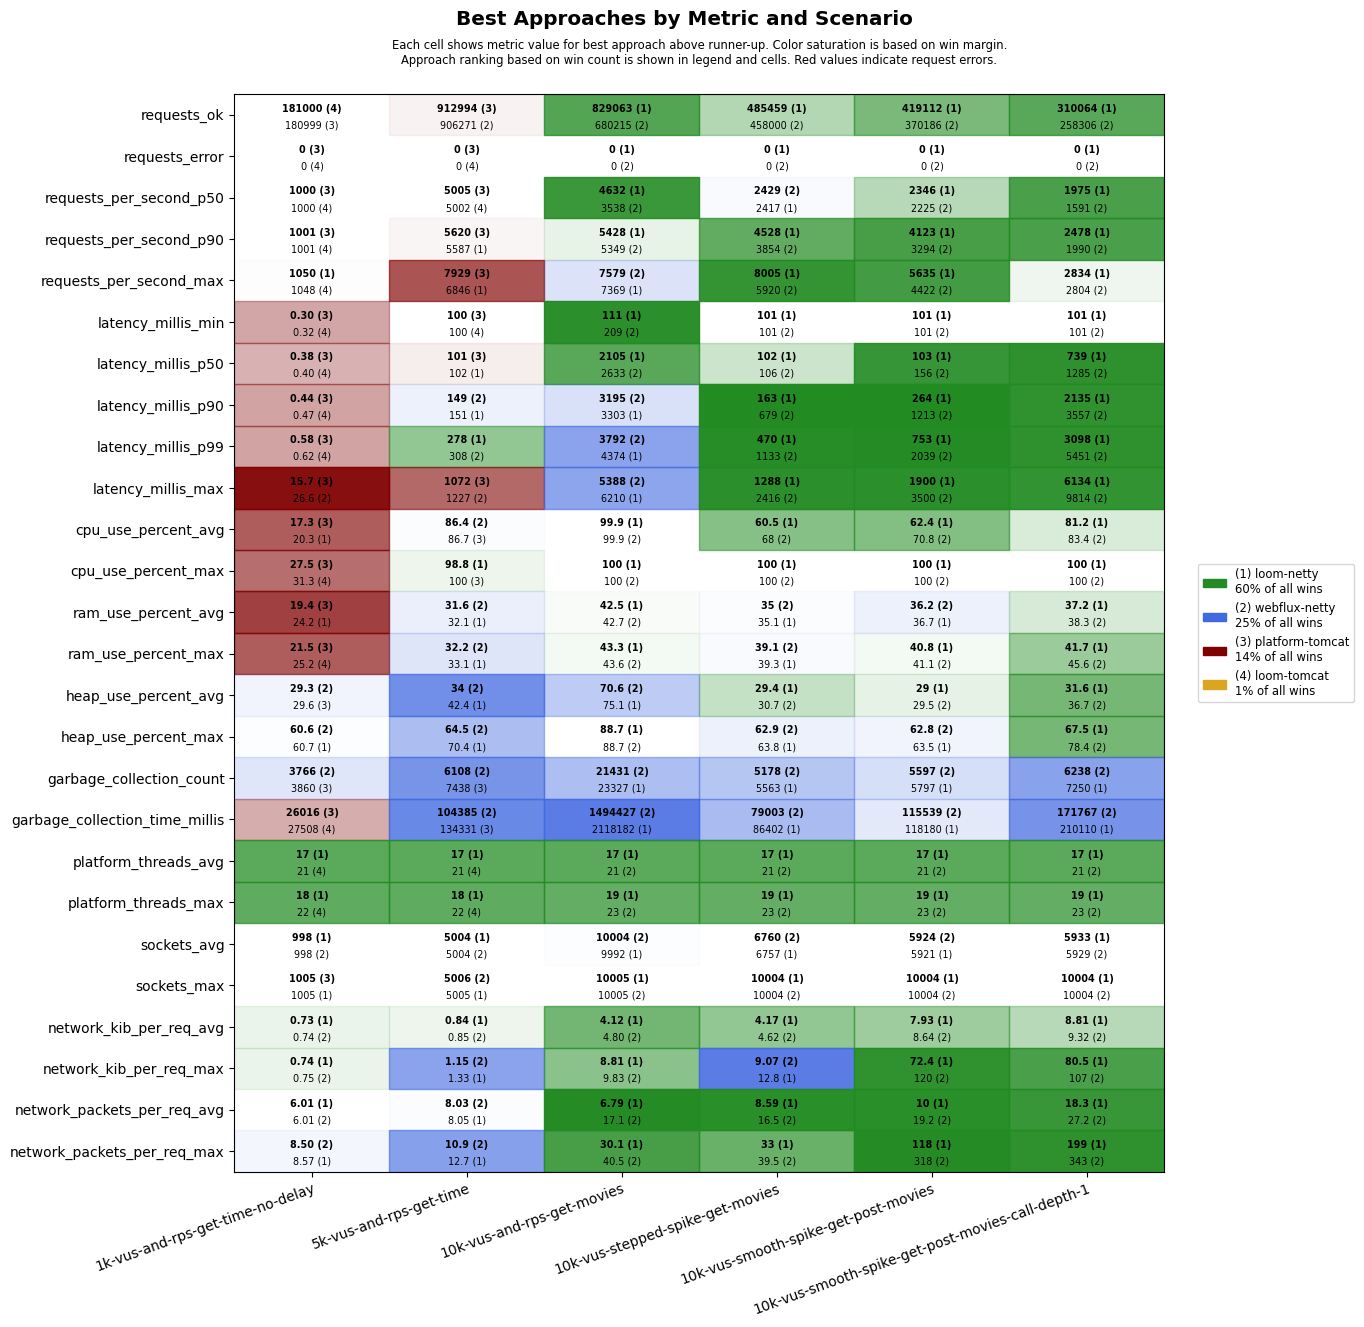
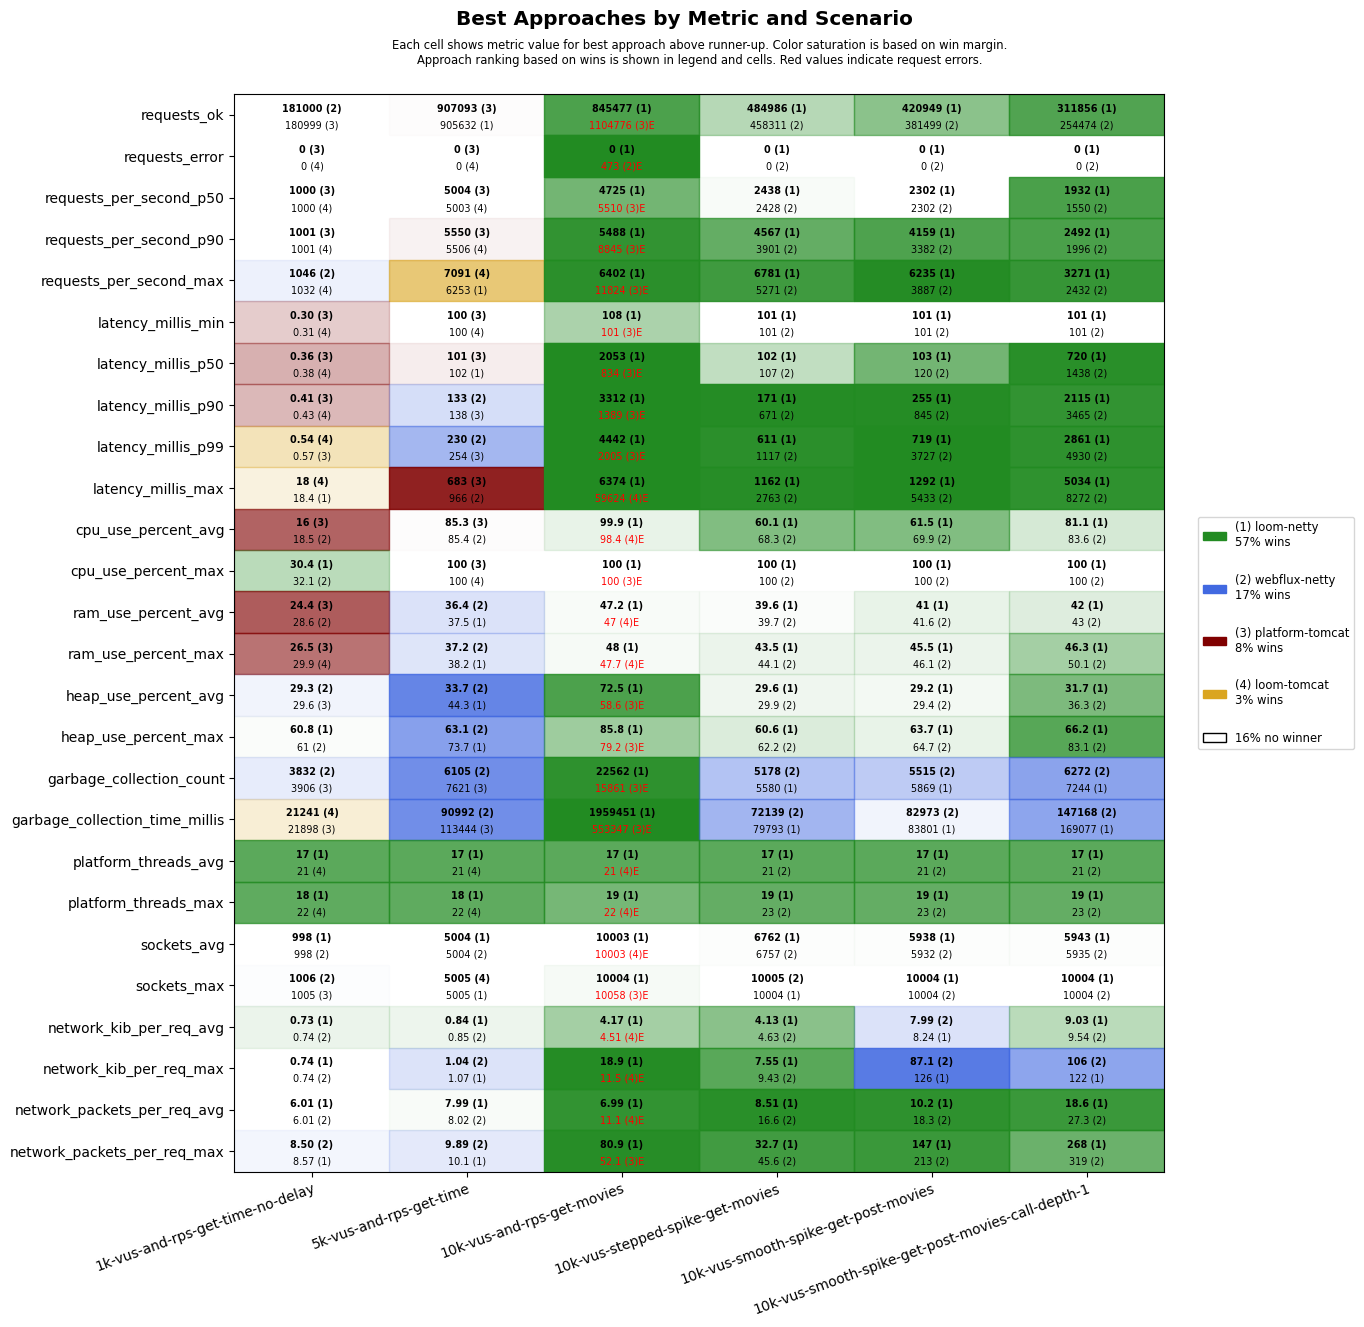
Apply automatic changes

diff --git a/results/ci/scenarios-ci/Ubuntu-22.04/java-21/results.md b/results/ci/scenarios-ci/Ubuntu-22.04/java-21/results.md
@@ -1,0 +1,162 @@
+# scenarios-ci
+
+## Test Time
+
+| **Name**                | **Value** |
+|-------------------------|-----------|
+| **Start (UTC)** | 2024-08-02 02:35:32 |
+| **End (UTC)** | 2024-08-02 04:00:30 |
+| **Duration (hh:mm:ss)** | 01:24:58 |
+
+## System Specs
+
+| **Name**                | **Value** |
+|-------------------------|-----------|
+| **Java** | OpenJDK 64-Bit Server VM Corretto-21.0.4.7.1 (build 21.0.4+7-LTS, mixed mode, sharing) |
+| **Python** | 3.10.12 |
+| **OS** | Ubuntu 22.04.4 LTS |
+| **Kernel** | 6.5.0-1024-azure |
+| **CPU** | AMD EPYC 7763 64-Core Processor |
+| **CPU Cores** | 4 |
+| **RAM** | 15Gi total, 13Gi available |
+| **Disk** | 159G total, 96G available |
+
+## Scenarios
+
+**Scenario file:** src/main/resources/scenarios/scenarios-ci.csv
+
+| Scenario | k6 Config | Server Profiles | Delay Call Depth | Delay (ms) | Connections | Requests per Second | Warmup Duration (s) | Test Duration (s) |
+|----------|-----------|-----------------|------------------|------------|-------------|---------------------|---------------------|------------------|
+| [1k-vus-and-rps-get-time-no-delay](#1k-vus-and-rps-get-time-no-delay) | get-time.js |  | 0 | 0 | 1000 | 1000 | 10 | 180 |
+| [5k-vus-and-rps-get-time](#5k-vus-and-rps-get-time) | get-time.js |  | 0 | 100 | 5000 | 5000 | 10 | 180 |
+| [10k-vus-and-rps-get-movies](#10k-vus-and-rps-get-movies) | get-movies.js |  | 0 | 100 | 10000 | 10000 | 10 | 180 |
+| [10k-vus-stepped-spike-get-movies](#10k-vus-stepped-spike-get-movies) | get-movies-stepped-vus-spike.js |  | 0 | 100 | 10000 |  | 0 | 180 |
+| [10k-vus-smooth-spike-get-post-movies](#10k-vus-smooth-spike-get-post-movies) | get-post-movies-smooth-vus-spike.js |  | 0 | 100 | 10000 |  | 0 | 180 |
+| [10k-vus-smooth-spike-get-post-movies-call-depth-1](#10k-vus-smooth-spike-get-post-movies-call-depth-1) | get-post-movies-smooth-vus-spike.js |  | 1 | 100 | 10000 |  | 0 | 180 |
+
+## Result Overview
+
+### Overall
+
+![Overall Results](./results.png)
+### Netty-based
+
+![Netty Results](./results-netty.png)
+
+## Result Details
+
+
+### 1k-vus-and-rps-get-time-no-delay
+
+#### platform-tomcat
+
+![platform-tomcat](./1k-vus-and-rps-get-time-no-delay/platform-tomcat.png)
+
+#### loom-tomcat
+
+![loom-tomcat](./1k-vus-and-rps-get-time-no-delay/loom-tomcat.png)
+
+#### loom-netty
+
+![loom-netty](./1k-vus-and-rps-get-time-no-delay/loom-netty.png)
+
+#### webflux-netty
+
+![webflux-netty](./1k-vus-and-rps-get-time-no-delay/webflux-netty.png)
+
+
+### 5k-vus-and-rps-get-time
+
+#### platform-tomcat
+
+![platform-tomcat](./5k-vus-and-rps-get-time/platform-tomcat.png)
+
+#### loom-tomcat
+
+![loom-tomcat](./5k-vus-and-rps-get-time/loom-tomcat.png)
+
+#### loom-netty
+
+![loom-netty](./5k-vus-and-rps-get-time/loom-netty.png)
+
+#### webflux-netty
+
+![webflux-netty](./5k-vus-and-rps-get-time/webflux-netty.png)
+
+
+### 10k-vus-and-rps-get-movies
+
+#### platform-tomcat
+
+![platform-tomcat](./10k-vus-and-rps-get-movies/platform-tomcat.png)
+
+#### loom-tomcat
+
+![loom-tomcat](./10k-vus-and-rps-get-movies/loom-tomcat.png)
+
+#### loom-netty
+
+![loom-netty](./10k-vus-and-rps-get-movies/loom-netty.png)
+
+#### webflux-netty
+
+![webflux-netty](./10k-vus-and-rps-get-movies/webflux-netty.png)
+
+
+### 10k-vus-stepped-spike-get-movies
+
+#### platform-tomcat
+
+![platform-tomcat](./10k-vus-stepped-spike-get-movies/platform-tomcat.png)
+
+#### loom-tomcat
+
+![loom-tomcat](./10k-vus-stepped-spike-get-movies/loom-tomcat.png)
+
+#### loom-netty
+
+![loom-netty](./10k-vus-stepped-spike-get-movies/loom-netty.png)
+
+#### webflux-netty
+
+![webflux-netty](./10k-vus-stepped-spike-get-movies/webflux-netty.png)
+
+
+### 10k-vus-smooth-spike-get-post-movies
+
+#### platform-tomcat
+
+![platform-tomcat](./10k-vus-smooth-spike-get-post-movies/platform-tomcat.png)
+
+#### loom-tomcat
+
+![loom-tomcat](./10k-vus-smooth-spike-get-post-movies/loom-tomcat.png)
+
+#### loom-netty
+
+![loom-netty](./10k-vus-smooth-spike-get-post-movies/loom-netty.png)
+
+#### webflux-netty
+
+![webflux-netty](./10k-vus-smooth-spike-get-post-movies/webflux-netty.png)
+
+
+### 10k-vus-smooth-spike-get-post-movies-call-depth-1
+
+#### platform-tomcat
+
+![platform-tomcat](./10k-vus-smooth-spike-get-post-movies-call-depth-1/platform-tomcat.png)
+
+#### loom-tomcat
+
+![loom-tomcat](./10k-vus-smooth-spike-get-post-movies-call-depth-1/loom-tomcat.png)
+
+#### loom-netty
+
+![loom-netty](./10k-vus-smooth-spike-get-post-movies-call-depth-1/loom-netty.png)
+
+#### webflux-netty
+
+![webflux-netty](./10k-vus-smooth-spike-get-post-movies-call-depth-1/webflux-netty.png)
+
+
